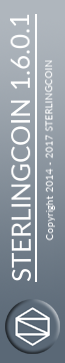
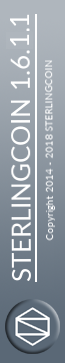
v1.6.1

Changed region(s): [[0.1538, 0.0606, 0.4615, 0.1515], [0.7077, 0.3636, 0.8308, 0.3939]]

diff --git a/src/walletdb.cpp b/src/walletdb.cpp
@@ -530,6 +530,83 @@ DBErrors CWalletDB::LoadWallet(CWallet* pwallet)
     return result;
 }
 
+DBErrors CWalletDB::FindWalletTx(CWallet* pwallet, vector<uint256>& vTxHash)
+{
+    pwallet->vchDefaultKey = CPubKey();
+    // CWalletScanState wss;
+    bool fNoncriticalErrors = false;
+    DBErrors result = DB_LOAD_OK;
+
+    try {
+        LOCK(pwallet->cs_wallet);
+        int nMinVersion = 0;
+        if (Read((string)"minversion", nMinVersion))
+        {
+            if (nMinVersion > CLIENT_VERSION)
+                return DB_TOO_NEW;
+            pwallet->LoadMinVersion(nMinVersion);
+        }
+
+        // Get cursor
+        Dbc* pcursor = GetCursor();
+        if (!pcursor)
+        {
+            // LogPrintf("Error getting wallet database cursor\n");
+            return DB_CORRUPT;
+        }
+
+        while (true)
+        {
+            // Read next record
+            CDataStream ssKey(SER_DISK, CLIENT_VERSION);
+            CDataStream ssValue(SER_DISK, CLIENT_VERSION);
+            int ret = ReadAtCursor(pcursor, ssKey, ssValue);
+            if (ret == DB_NOTFOUND)
+                break;
+            else if (ret != 0)
+            {
+                // LogPrintf("Error reading next record from wallet database\n");
+                return DB_CORRUPT;
+            }
+
+            string strType;
+            ssKey >> strType;
+            if (strType == "tx") {
+                uint256 hash;
+                ssKey >> hash;
+
+                vTxHash.push_back(hash);
+            }
+        }
+        pcursor->close();
+    }
+    catch (boost::thread_interrupted) {
+        throw;
+    }
+    catch (...) {
+        result = DB_CORRUPT;
+    }
+
+   return result;
+}
+
+DBErrors CWalletDB::ZapWalletTx(CWallet* pwallet)
+{
+    // build list of wallet TXs
+    vector<uint256> vTxHash;
+    DBErrors err = FindWalletTx(pwallet, vTxHash);
+    if (err != DB_LOAD_OK)
+        return err;
+
+    // erase each wallet TX
+    BOOST_FOREACH (uint256& hash, vTxHash) {
+        if (!EraseTx(hash))
+            return DB_CORRUPT;
+    }
+
+    return DB_LOAD_OK;
+}
+
 void ThreadFlushWalletDB(void* parg)
 {
     // Make this thread recognisable as the wallet flushing thread

diff --git a/src/init.cpp b/src/init.cpp
@@ -297,6 +297,7 @@ std::string HelpMessage()
         "  -upgradewallet         " + _("Upgrade wallet to latest format") + "\n" +
         "  -keypool=<n>           " + _("Set key pool size to <n> (default: 100)") + "\n" +
         "  -rescan                " + _("Rescan the block chain for missing wallet transactions") + "\n" +
+        "  -zapwallettxes         " + _("Clear orphan transactions (implies -rescan)") + "\n" +
         "  -salvagewallet         " + _("Attempt to recover private keys from a corrupt wallet.dat") + "\n" +
         "  -checkblocks=<n>       " + _("How many blocks to check at startup (default: 2500, 0 = all)") + "\n" +
         "  -checklevel=<n>        " + _("How thorough the block verification is (0-6, default: 1)") + "\n" +
@@ -422,18 +423,20 @@ bool AppInit2()
         SoftSetBoolArg("-rescan", true);
     }
 
+    if (GetBoolArg("-zapwallettxes", false)) {
+        if (SoftSetBoolArg("-rescan", true))
+            { /* zapwallettxes implies rescan */ }
+    }
+
     // ********************************************************* Step 3: parameter-to-internal-flags
 
     fDebug = GetBoolArg("-debug");
 
     // -debug implies fDebug*
     if (fDebug)
-    {
         fDebugNet  = true;
-    } else
-    {
+    else
         fDebugNet  = GetBoolArg("-debugnet");
-    }
     
     bitdb.SetDetach(GetBoolArg("-detachdb", false));
 
@@ -755,6 +758,18 @@ bool AppInit2()
     }
 
     // ********************************************************* Step 8: load wallet
+
+    if (GetBoolArg("-zapwallettxes", false)) {
+         uiInterface.InitMessage(_("Zapping all transactions from wallet..."));
+         pwalletMain = new CWallet(strWalletFileName);
+         DBErrors nZapWalletRet = pwalletMain->ZapWalletTx();
+         if (nZapWalletRet != DB_LOAD_OK) {
+             uiInterface.InitMessage(_("Error loading wallet.dat: Wallet corrupted"));
+             return false;
+         }
+         delete pwalletMain;
+         pwalletMain = NULL;
+    }
 
     uiInterface.InitMessage(_("Loading wallet..."));
     printf("Loading wallet...\n");

diff --git a/src/wallet.cpp b/src/wallet.cpp
@@ -1887,6 +1887,28 @@ DBErrors CWallet::LoadWallet(bool& fFirstRunRet)
     return DB_LOAD_OK;
 }
 
+DBErrors CWallet::ZapWalletTx()
+{
+    if (!fFileBacked)
+        return DB_LOAD_OK;
+    DBErrors nZapWalletTxRet = CWalletDB(strWalletFile,"cr+").ZapWalletTx(this);
+    if (nZapWalletTxRet == DB_NEED_REWRITE)
+    {
+        if (CDB::Rewrite(strWalletFile, "\x04pool"))
+        {
+            LOCK(cs_wallet);
+            setKeyPool.clear();
+            // Note: can't top-up keypool here, because wallet is locked.
+            // User will be prompted to unlock wallet the next operation
+            // the requires a new key.
+        }
+    }
+
+    if (nZapWalletTxRet != DB_LOAD_OK)
+        return nZapWalletTxRet;
+
+     return DB_LOAD_OK;
+}
 
 bool CWallet::SetAddressBookName(const CTxDestination& address, const string& strName)
 {

diff --git a/src/checkpoints.cpp b/src/checkpoints.cpp
@@ -49,6 +49,9 @@ namespace Checkpoints
[6 lines of base64/hex data omitted]
     ;
 
     // TestNet has no checkpoints

diff --git a/src/walletdb.h b/src/walletdb.h
@@ -197,6 +197,8 @@ public:
 
     DBErrors ReorderTransactions(CWallet*);
     DBErrors LoadWallet(CWallet* pwallet);
+    DBErrors FindWalletTx(CWallet* pwallet, std::vector<uint256>& vTxHash);
+    DBErrors ZapWalletTx(CWallet* pwallet);
     static bool Recover(CDBEnv& dbenv, std::string filename, bool fOnlyKeys);
     static bool Recover(CDBEnv& dbenv, std::string filename);
 };

diff --git a/src/clientversion.h b/src/clientversion.h
@@ -8,7 +8,7 @@
 // These need to be macros, as version.cpp's and bitcoin-qt.rc's voodoo requires it
 #define CLIENT_VERSION_MAJOR       1
 #define CLIENT_VERSION_MINOR       6
-#define CLIENT_VERSION_REVISION    0
+#define CLIENT_VERSION_REVISION    1
 #define CLIENT_VERSION_BUILD       1
 
 // Converts the parameter X to a string after macro replacement on X has been performed.

diff --git a/src/kernel.cpp b/src/kernel.cpp
@@ -42,6 +42,9 @@ static std::map<int, unsigned int> mapStakeModifierCheckpoints =
         ( 112000, 0x288ab741u )
         ( 682683, 0xe1253729u )
         ( 716675, 0x5257f5deu )
+        ( 965690, 0xc414072fu )
+        (1000000, 0x741054a5u )
+        (1020000, 0x0d3875feu )
     ;
 
 // Hard checkpoints of stake modifiers to ensure they are deterministic (testNet)

diff --git a/src/wallet.h b/src/wallet.h
@@ -273,6 +273,8 @@ public:
 
     DBErrors LoadWallet(bool& fFirstRunRet);
 
+    DBErrors ZapWalletTx();
+
     bool SetAddressBookName(const CTxDestination& address, const std::string& strName);
 
     bool DelAddressBookName(const CTxDestination& address);

diff --git a/README.md b/README.md
@@ -1,13 +1,11 @@
-Sterlingcoin Version 1.6.0.1 Release
-
-POD-CryptoAsian
+Sterlingcoin Version 1.6.1.1 Release
 
 Sterlingcoin integration/staging tree
 ================================
 
 http://www.sterlingcoin.org.uk
 
-Copyright (c) 2014 - 2017 Sterlingcoin Developers
+Copyright (c) 2014 - 2018 Sterlingcoin Developers
 
 What is Sterlingcoin?
 The cryptocurrency of and from the UK & British Isles for the world.
